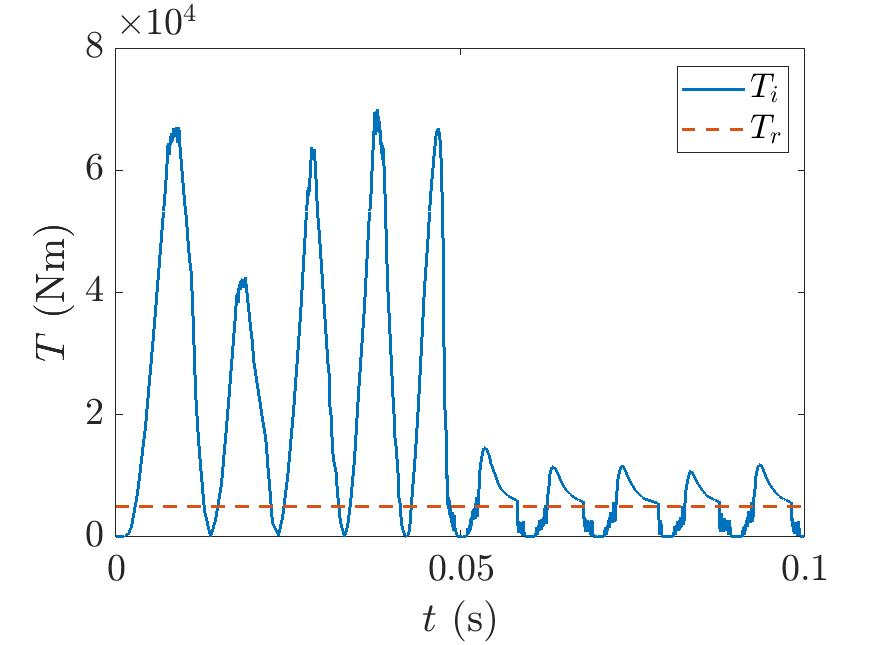
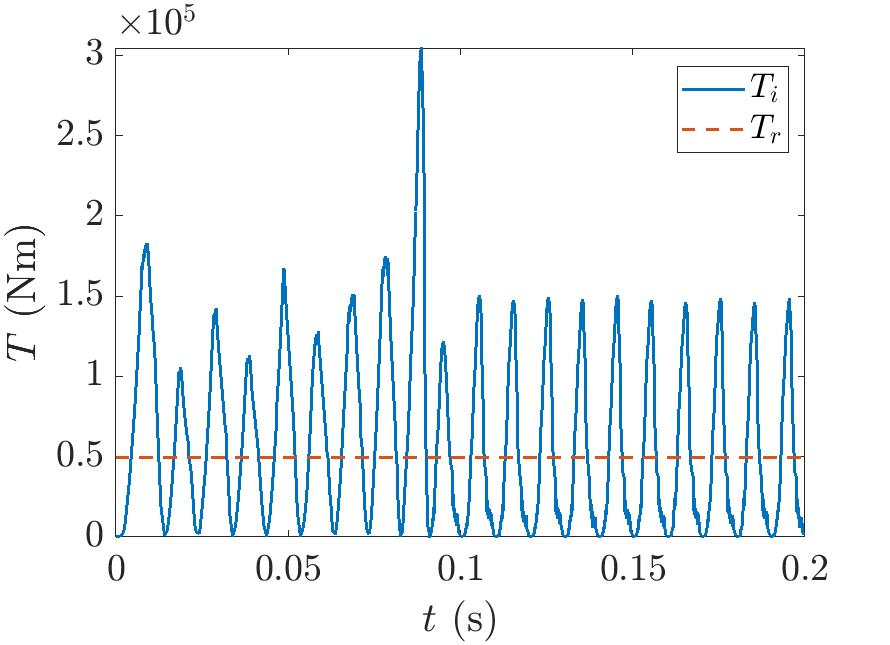
Some cleanup and comments

diff --git a/motor2.m b/motor2.m
@@ -31,22 +31,28 @@ tc = Lu*i1/Vp;
 tt = D.t/tc;
 V = D.v1;
 
-N = 5;
+N = 10;
 V = repmat(V, [N, 1]);
 tt = linspace(tt(1), N*tt(end), length(V))';
 
-%% Initial conditions and parameters
+% The prescribed voltage signal can be replaced by
+% Vp*sin(2*pi*f*tt*tc).
+% It might be useful to compute the permanent state solution analytically.
+
+%% Initial conditions and dimensionless parameters
 Lambda1 = L1/Lu;
 Lambda2 = L2/Lu;
 alpha = 1 + Lambda1;
 beta = 1 + Lambda2;
 nu = i1*R1/Vp;
 rho = R2/R1;
-p = 3;
+p = 1;
 ns = 60*f/p;
 Tc = (2*pi*ns/60)/(Vp*i1);
-Tr = 5e3/Tc;
-ji = 3e6;
+
+% Play around with ji and Tr
+ji = 2e6;
+Tr = 3e4;
 
 xi1 = -1;
 xi2 = 1;
@@ -75,7 +81,7 @@ if exist('figs', 'dir') == 0
 end
 
 figure,
-plot(tt*tc, V*Vp)
+plot(tt*tc, V*Vp, tt*tc, Vp*sin(2*pi*f*tt*tc))
 xlabel('$t$ (s)')
 ylabel('$V_1$ (V)')
 saveas(gcf, './figs/V1_vs_t', 'jpg')
@@ -95,12 +101,9 @@ ylabel('$T$ (Nm)')
 saveas(gcf, './figs/T_vs_t', 'jpg')
 
 figure,
-subplot(211), plot(tau*tc, s)
-% xlabel('$t$ (s)')
+subplot(211), plot(tau*tc, s, tau*tc, s*0, '--')
 ylabel('$s$')
-% saveas(gcf, './figs/s_vs_t', 'jpg')
-
-subplot(212), plot(tau*tc, nr)
+subplot(212), plot(tau*tc, nr, tau*tc, nr*0 + ns, '--')
 xlabel('$t$ (s)')
 ylabel('$n_r$ (rpm)')
 saveas(gcf, './figs/s_nr_vs_t', 'jpg')
